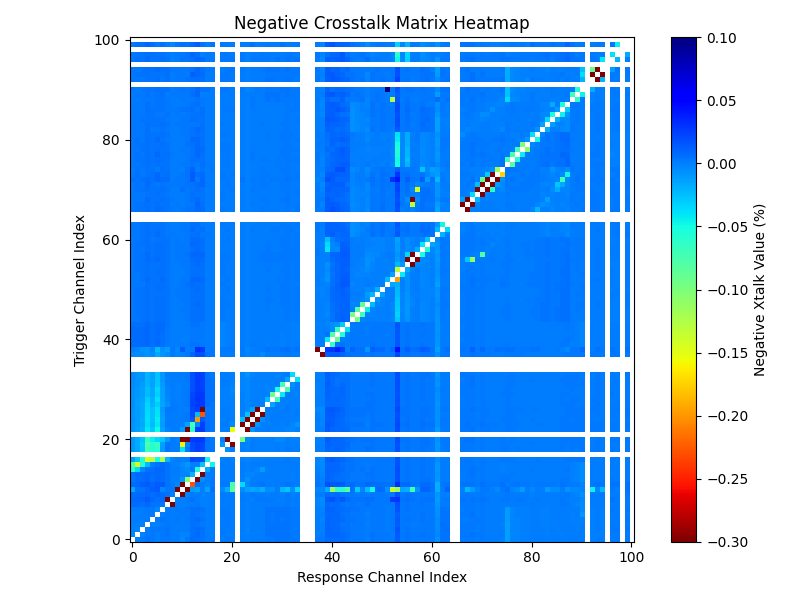
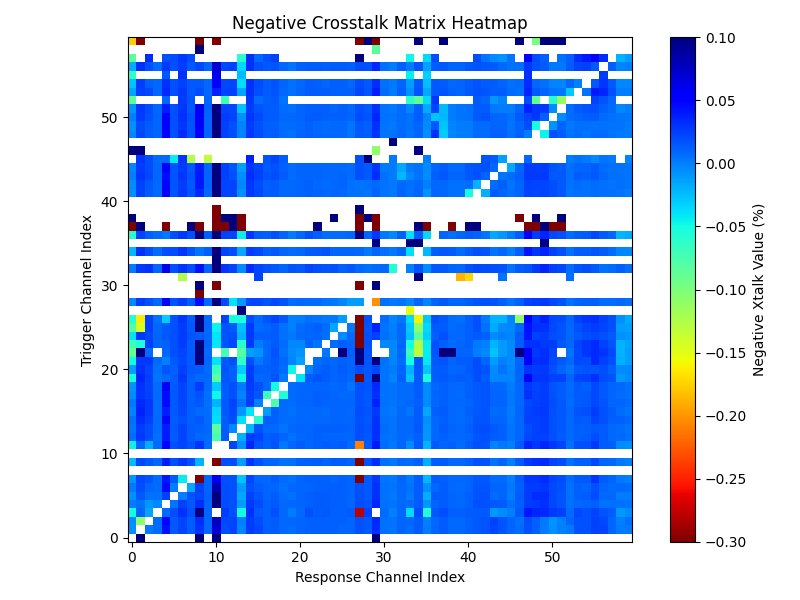
First result for p16 but it looks like shit

diff --git a/scripts/fit_inspector.py b/scripts/fit_inspector.py
@@ -4,7 +4,7 @@ import matplotlib.pyplot as plt
 import sys
 import argparse
 from pathlib import Path
-from xtc_utils import files_and_chnid
+from xtc_utils import files_and_chnid, XTCConfig
 
 parser = argparse.ArgumentParser()
 parser.add_argument(
@@ -21,24 +21,26 @@ reason_dict = {None : None,
 actual_reason = reason_dict[args.reason]
 
 REPO_ROOT = Path(__file__).resolve().parents[1]
-CONFIG_PATH = REPO_ROOT / "xtc_config.json"
+CONFIG_PATH = REPO_ROOT / "configs" / "xtc_config.json"
+config = XTCConfig(CONFIG_PATH, "xtc_p16")
+
 IN_DIR = REPO_ROOT / "temp_results" / "fit_results"
 SKIP_DIR = REPO_ROOT / "temp_results" / "parameters"
 OUT_DIR = REPO_ROOT / "results"
 OUT_DIR.mkdir(parents=True, exist_ok=True)
 
-neg_xtalk_matrix = np.full((101, 101),np.nan)
-pos_xtalk_matrix = np.full((101, 101),np.nan)
+neg_xtalk_matrix = np.full((60, 60),np.nan)
+pos_xtalk_matrix = np.full((60, 60),np.nan)
 neg_fail_list = []
 pos_fail_list = []
 scenarios = set()
 
-new_hit_list, new_dsp_list, chn_id = files_and_chnid(CONFIG_PATH)
+new_hit_list, new_dsp_list, chn_id = files_and_chnid(config)
 skipped_channels = set(np.load(SKIP_DIR / "skipped_channels.npy"))
 
-for j1 in range(101):
+for j1 in range(60):
     raw_id_1 = chn_id[j1]
-    for j2 in range(101):
+    for j2 in range(60):
         raw_id_2 = chn_id[j2]
         npz_path = IN_DIR / f"fit_neg_{j1}_{j2}.npz"
         try:
@@ -53,8 +55,8 @@ for j1 in range(101):
         if reason not in scenarios:
             scenarios.add(reason)
         neg_xtalk_matrix[j1,j2] = mu
-        if neg_xtalk_matrix[j1,j2] < -2:
-            print(f"neg xtalk value for {(j1,j2)} is {neg_xtalk_matrix[j1,j2]}")
+        #if neg_xtalk_matrix[j1,j2] < -2:
+           # print(f"neg xtalk value for {(j1,j2)} is {neg_xtalk_matrix[j1,j2]}")
         if reason == actual_reason:
             if raw_id_1 not in skipped_channels and raw_id_2 not in skipped_channels:
                 if raw_id_1 != raw_id_2:
@@ -69,13 +71,16 @@ for j1 in range(101):
         if reason not in scenarios:
             scenarios.add(reason)
         pos_xtalk_matrix[j1,j2] = mu
-        if pos_xtalk_matrix[j1,j2] > 0.05:
-            print(f"pos xtalk value for {(j1,j2)} is {pos_xtalk_matrix[j1,j2]}")
+        #if pos_xtalk_matrix[j1,j2] > 0.05:
+            #print(f"pos xtalk value for {(j1,j2)} is {pos_xtalk_matrix[j1,j2]}")
         if reason == actual_reason:
             if raw_id_1 not in skipped_channels and raw_id_2 not in skipped_channels:
                 if raw_id_1 != raw_id_2:
                     pos_fail_list.append(f"{j1},{j2}")
 
+
+print(neg_xtalk_matrix)
+print(scenarios)
 # -----------Negative Plot ---------------
 
 # Set up value range and colormap
